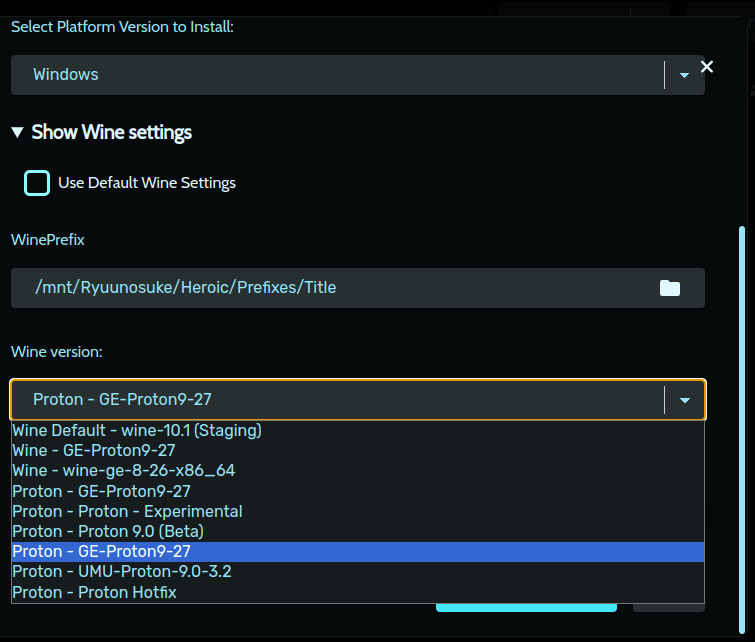
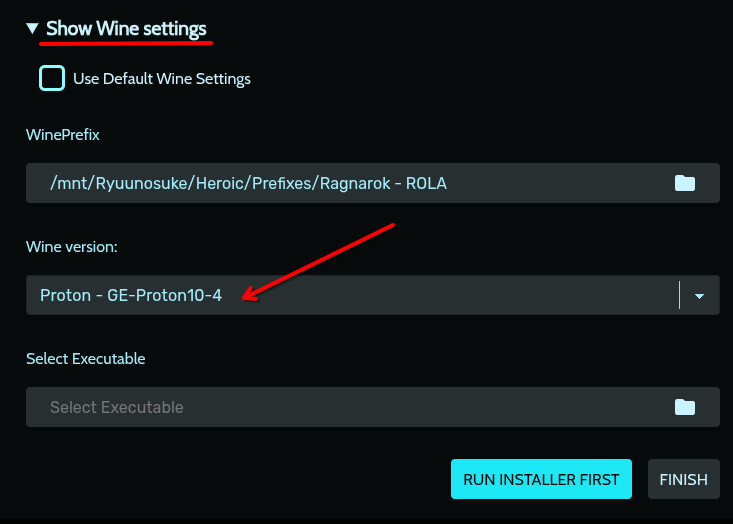
atualizando guia

diff --git a/tutorial-pt.md b/tutorial-pt.md
@@ -44,7 +44,7 @@ Se você quer rodar o **Ragnarok LATAM** no Linux, dá pra fazer funcionar perfe
 
    ![Wine Manager image](assets/images/wine-manager.png)
 
-3. Na aba **Proton-GE**, baixe a versão **GE-Proton9-27**  
+3. Na aba **Proton-GE**, baixe a versão **GE-Proton10-4**
    (Versões mais novas também podem funcionar)
 
    ![Proton GE image](assets/images/proton-ge.png)
@@ -55,7 +55,7 @@ Se você quer rodar o **Ragnarok LATAM** no Linux, dá pra fazer funcionar perfe
 
    ![ADD GAME image](assets/images/add-game.png)
 
-2. Preencha o campo **Game/App Name** com **Ragnarok**  
+2. Preencha o campo **Game/App Name** com **Ragnarok** (Ou algo como **Ragnarok - Latam**)
    (O Heroic deve carregar a imagem automaticamente — opcional)
 
    ![Game Name image](assets/images/game-name.png)
@@ -64,7 +64,7 @@ Se você quer rodar o **Ragnarok LATAM** no Linux, dá pra fazer funcionar perfe
 
    ![Show Wine Settings image](assets/images/show-wine-settings.png)
 
-4. Selecione **GE-Proton9-27** em **Wine Version**
+4. Selecione **GE-Proton10-4** em **Wine Version**
 
    ![Wine Version image](assets/images/wine-version.png)
 
@@ -81,7 +81,7 @@ Se você quer rodar o **Ragnarok LATAM** no Linux, dá pra fazer funcionar perfe
 
    ![Open Setup.exe image](assets/images/open-setup.png)
 
-8. Após a instalação, localize o executável do jogo:
+8. Após a instalação, localize os executável do jogo:
 
    ![Select Executable image](assets/images/select-executable.png)
 
@@ -113,6 +113,18 @@ Se você quer rodar o **Ragnarok LATAM** no Linux, dá pra fazer funcionar perfe
 
 5. Clique em **Aplicar** e depois em **OK**
 
+6. No Heroic, vá novamente até as **Configurações** do jogo
+
+   ![Game Settings image](assets/images/game-settings.png)
+
+7. Vá em **Other** e selecione **Use Steam Runtime**
+
+   ![Use Steam Runtime image](assets/images/use-steam-runtime.png)
+
+8. Depois, vá em **Advanced** e selecione **Disable UMU**
+
+   ![Disable Umu image](assets/images/disable-umu.png)
+
 ### 📝 Passos opcionais
 
 1. Instale as fontes do Windows clicando em **Winetricks**
@@ -124,9 +136,25 @@ Se você quer rodar o **Ragnarok LATAM** no Linux, dá pra fazer funcionar perfe
    ![Corefonts image](assets/images/corefonts.png)
 
 <div style="background-color:rgba(0, 0, 0, 0.2); border-left: 4px solid #ffcc00; padding: 10px; margin-top: 10px; font-style: italic;">
-  <b>Importante:</b>  
+  <b>🚨 Importante:</b>  
   Algumas pessoas relataram que precisaram deletar o arquivo `dbghelp.dll` da pasta `system32` para o jogo rodar corretamente. Vale a tentativa se algo não funcionar!
 </div>
+
+### 🔧 Workarounds
+
+No servidor Nidhogg acontece um problema onde a cidade **Prontera** fica inacessível por algum motivo, você recebe o erro `Desconectado do Servidor` ao tentar acessar um personagem que se encontra na cidade. Para resolver isso (e possívelmente resolver problemas parecidos em outros mapas/servidores) é necessário rodar o seguinte comando enquanto o jogo roda:
+
+```bash
+   sudo sysctl -w /etc/sysctl.conf
+```
+Se preferir, pode tornar isso algo persistente no sistema editando o arquivo `/etc/sysctl.conf` no seu sistema e adicionando a linha `/etc/sysctl.conf` no final do mesmo.
+
+<div style="background-color:rgba(0, 0, 0, 0.2); border-left: 4px solid #ffcc00; padding: 10px; margin-top: 10px; font-style: italic;">
+  <b>⚠ Atenção:</b>  
+  Ainda é uma discussão importante e recente entre a comunidade, então o ideal por agora é acessar o discord caso tenha quaisquer duvidas sobre esse passo!
+</div>
+
+Esse workarund foi descoberto pelo usuário **@trololobr** no discord!
 
 ## 🚀 Rodando o Ragnarok
 

diff --git a/tutorial-es.md b/tutorial-es.md
@@ -124,9 +124,40 @@ Si deseas ejecutar **Ragnarok LATAM** en Linux, puedes hacerlo perfectamente con
    ![Corefonts image](assets/images/corefonts.png)
 
 <div style="background-color:rgba(0, 0, 0, 0.2); border-left: 4px solid #ffcc00; padding: 10px; margin-top: 10px; font-style: italic;">
-  <b>Importante:</b>  
+  <b>🚨 Importante:</b>  
   Algunas personas informaron que necesitaron eliminar el archivo `dbghelp.dll` de la carpeta `system32` para que el juego funcionara correctamente. ¡Vale la pena intentarlo si algo no funciona!
 </div>
+
+6. En Heroic, vuelve a las **Configuraciones** del juego
+
+   ![Game Settings image](assets/images/game-settings.png)
+
+7. Ve a **Other** y selecciona **Use Steam Runtime**
+
+   ![Use Steam Runtime image](assets/images/use-steam-runtime.png)
+
+8. Luego ve a **Advanced** y selecciona **Disable UMU**
+
+   ![Disable Umu image](assets/images/disable-umu.png)
+
+
+
+### 🔧 Soluciones Alternativas
+
+En el servidor Nidhogg existe un problema donde la ciudad de **Prontera** se vuelve inaccesible — podrías recibir el error `Desconectado del Servidor` al intentar entrar con un personaje ubicado allí. Para solucionar esto (y posiblemente otros problemas similares en otros mapas o servidores), ejecuta el siguiente comando mientras el juego está abierto:
+
+```bash
+   sudo sysctl -w /etc/sysctl.conf
+```
+
+Si lo prefieres, puedes hacer que este cambio sea permanente editando el archivo `/etc/sysctl.conf` en tu sistema y añadiendo la línea `/etc/sysctl.conf` al final.
+
+<div style="background-color:rgba(0, 0, 0, 0.2); border-left: 4px solid #ffcc00; padding: 10px; margin-top: 10px; font-style: italic;">
+  <b>⚠ Atención:</b>  
+  Aún es un tema en discusión dentro de la comunidad, así que lo mejor por ahora es consultar el servidor de Discord si tienes dudas sobre este paso.
+</div>
+
+¡Este workaround fue descubierto por el usuario **@trololobr** en Discord!
 
 ## 🚀 Ejecutando Ragnarok
 

diff --git a/tutorial-en.md b/tutorial-en.md
@@ -124,9 +124,38 @@ If you want to run **Ragnarok LATAM** on Linux, you can do so perfectly with **H
    ![Corefonts image](assets/images/corefonts.png)
 
 <div style="background-color:rgba(0, 0, 0, 0.2); border-left: 4px solid #ffcc00; padding: 10px; margin-top: 10px; font-style: italic;">
-  <b>Important:</b>  
+  <b>🚨 Important:</b>  
   Some users reported that removing `dbghelp.dll` from the `system32` folder fixed some issues with the game. Try it if you face problems!
 </div>
+
+6. In Heroic, go again to the **game settings**
+
+   ![Game Settings image](assets/images/game-settings.png)
+
+7. Go to **Other** and select **Use Steam Runtime**
+
+   ![Use Steam Runtime image](assets/images/use-steam-runtime.png)
+
+8. Then go to **Advanced** and select **Disable UMU**
+
+   ![Disable Umu image](assets/images/disable-umu.png)
+
+### 🔧 Workarounds
+
+On the Nidhogg server, there's an issue where the city **Prontera** becomes inaccessible — you may get the `Disconnected from Server` error when trying to load a character located there. To fix this (and possibly other similar map/server issues), run the following command while the game is running:
+
+```bash
+   sudo sysctl -w /etc/sysctl.conf
+```
+
+If you prefer, you can make this change permanent by editing the `/etc/sysctl.conf` file and adding the line `/etc/sysctl.conf` at the end.
+
+<div style="background-color:rgba(0, 0, 0, 0.2); border-left: 4px solid #ffcc00; padding: 10px; margin-top: 10px; font-style: italic;">
+  <b>⚠ Heads-up:</b>  
+  This is still a topic of active discussion in the community, so the best thing for now is to check the Discord server if you have any questions about this step!
+</div>
+
+This workaround was discovered by **@trololobr** on Discord!
 
 ## 🚀 Running Ragnarok
 
